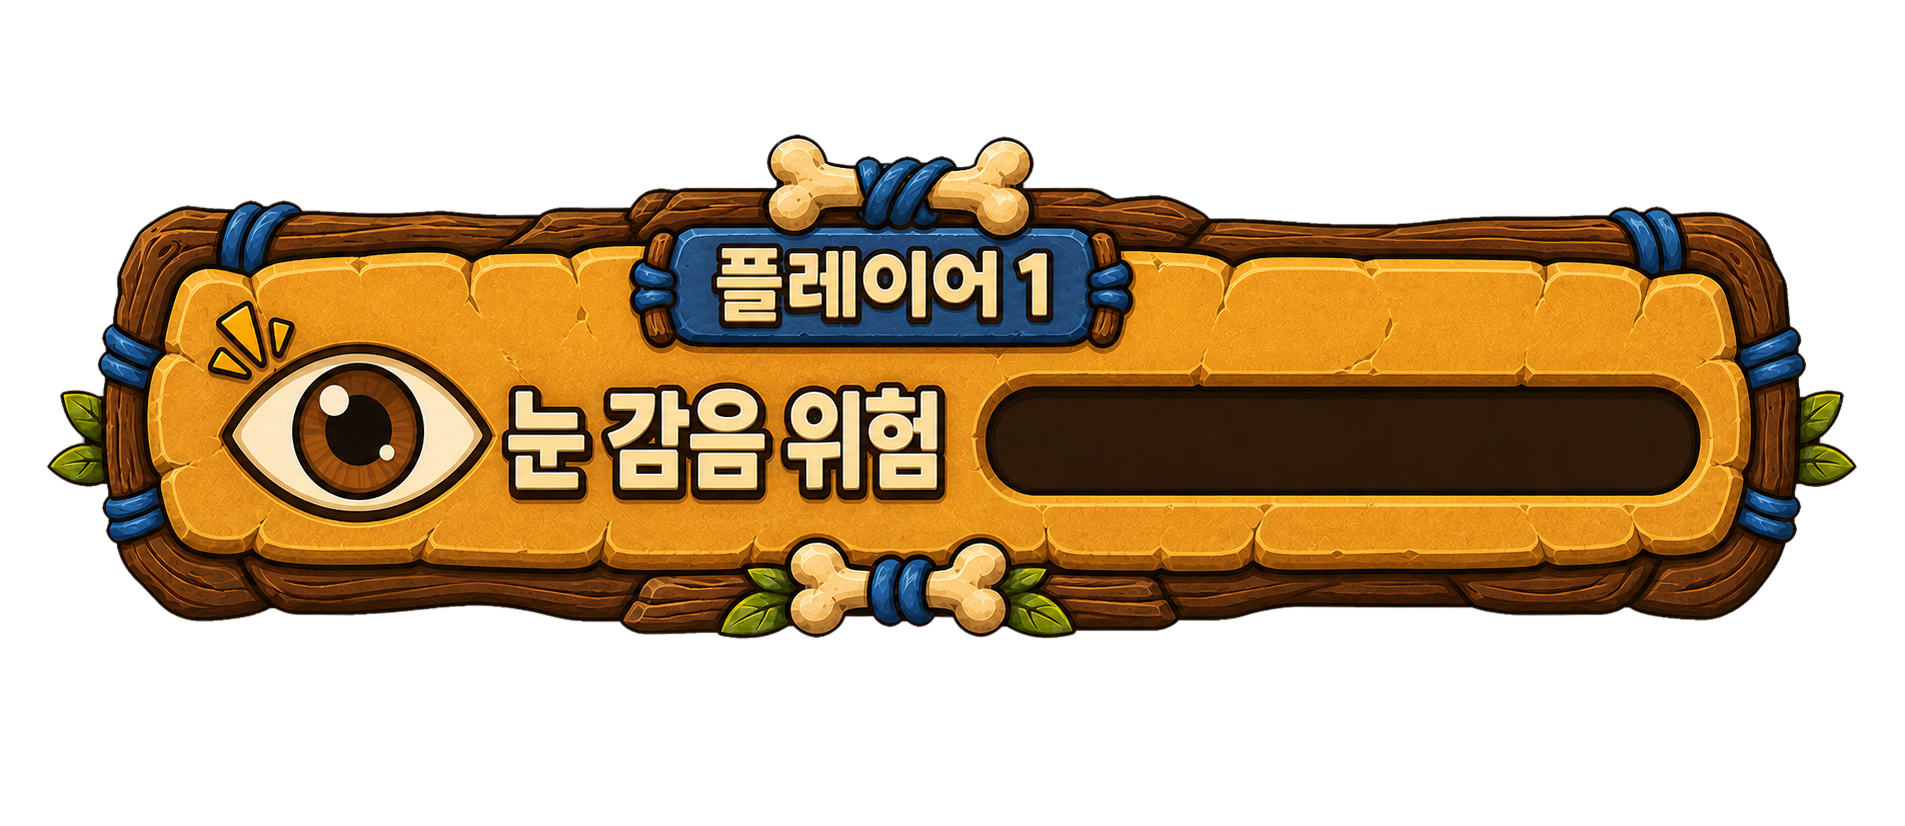
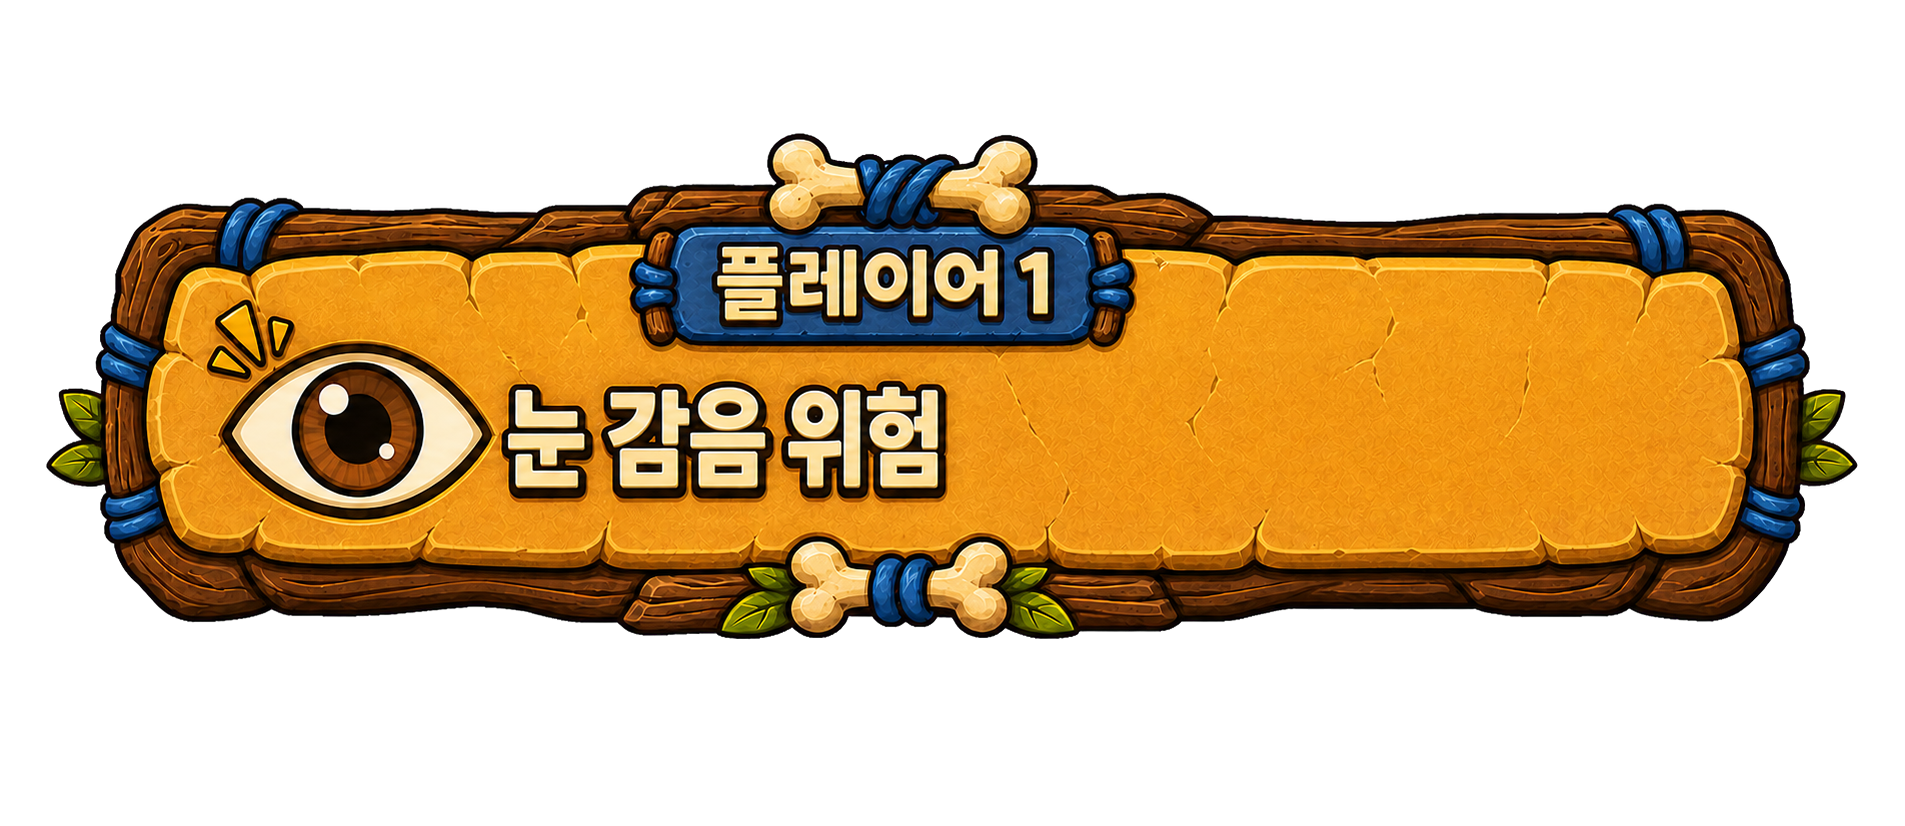
StareFight demo: HUD 게이지 위치/크기 튜닝
- StaringContestHud의 게이지 바/트랙 anchor·scale을 Inspector에서 조정 가능하게 노출
- 통일된 hud_eye_danger_p1/p2 아트에 맞춰 위치/크기 재조정

Changed region(s): [[0.0, 0.1513, 0.9911, 0.7869]]

diff --git a/pc-game/Assets/Scripts/Minigames/StaringContest/StaringContestHud.cs b/pc-game/Assets/Scripts/Minigames/StaringContest/StaringContestHud.cs
@@ -11,14 +11,14 @@ public class StaringContestHud : MonoBehaviour
     // 네임플레이트 안에서 게이지가 차지하는 위치/크기 비율(실측 - hud_eye_danger_p1/p2 기준).
     // Play 중에 Inspector에서 드래그해서 조정 가능 - Update()에서 매 프레임 다시 적용한다.
     [Header("게이지 바(채워지는 부분) 위치/크기 (플레이트 이미지 안 0~1 비율)")]
-    [SerializeField] private Vector2 gaugeAnchorMin = new Vector2(0.655f, 0.075f);
-    [SerializeField] private Vector2 gaugeAnchorMax = new Vector2(1.160f, 0.520f);
-    [SerializeField] private Vector2 gaugeScale = new Vector2(1f, 0.5f);
+    [SerializeField] private Vector2 gaugeAnchorMin = new Vector2(0.455f, 0.175f);
+    [SerializeField] private Vector2 gaugeAnchorMax = new Vector2(0.960f, 0.620f);
+    [SerializeField] private Vector2 gaugeScale = new Vector2(0.77f, 0.7f);
 
     [Header("게이지 트랙(뒤 배경) 위치/크기 (플레이트 이미지 안 0~1 비율)")]
-    [SerializeField] private Vector2 trackAnchorMin = new Vector2(0.655f, 0.075f);
-    [SerializeField] private Vector2 trackAnchorMax = new Vector2(1.160f, 0.520f);
-    [SerializeField] private Vector2 trackScale = new Vector2(1f, 0.5f);
+    [SerializeField] private Vector2 trackAnchorMin = new Vector2(0.455f, 0.175f);
+    [SerializeField] private Vector2 trackAnchorMax = new Vector2(0.960f, 0.620f);
+    [SerializeField] private Vector2 trackScale = new Vector2(0.77f, 0.7f);
     [SerializeField] private Color trackColor = new Color32(48, 25, 13, 255);
 
     [Header("씬에 배치된 UI")]
